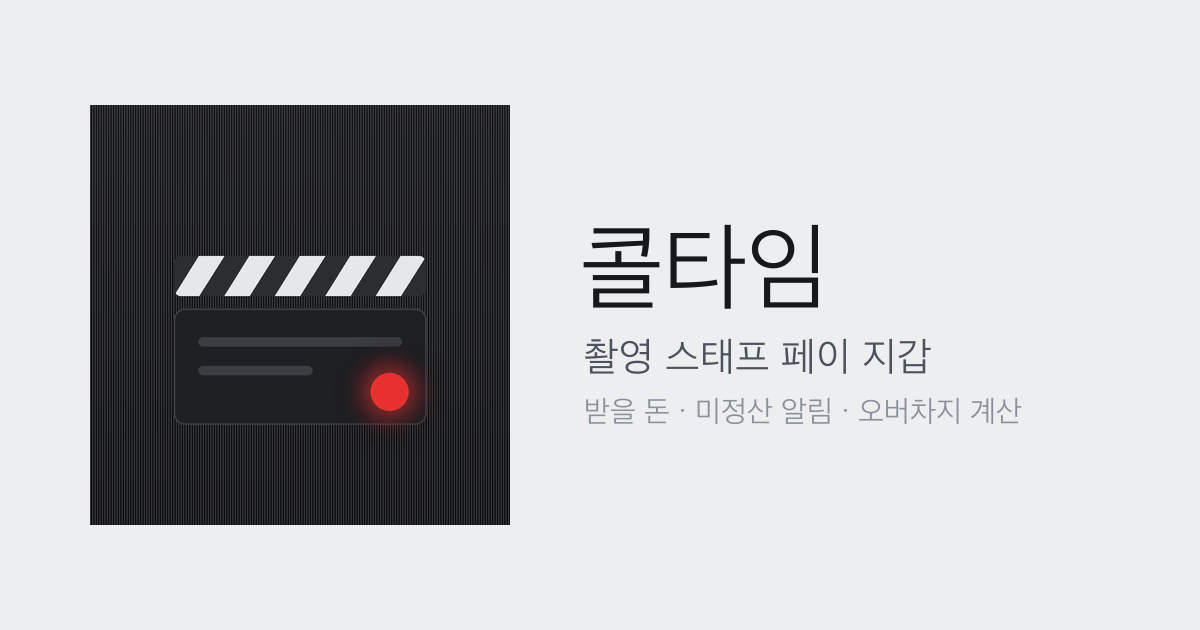
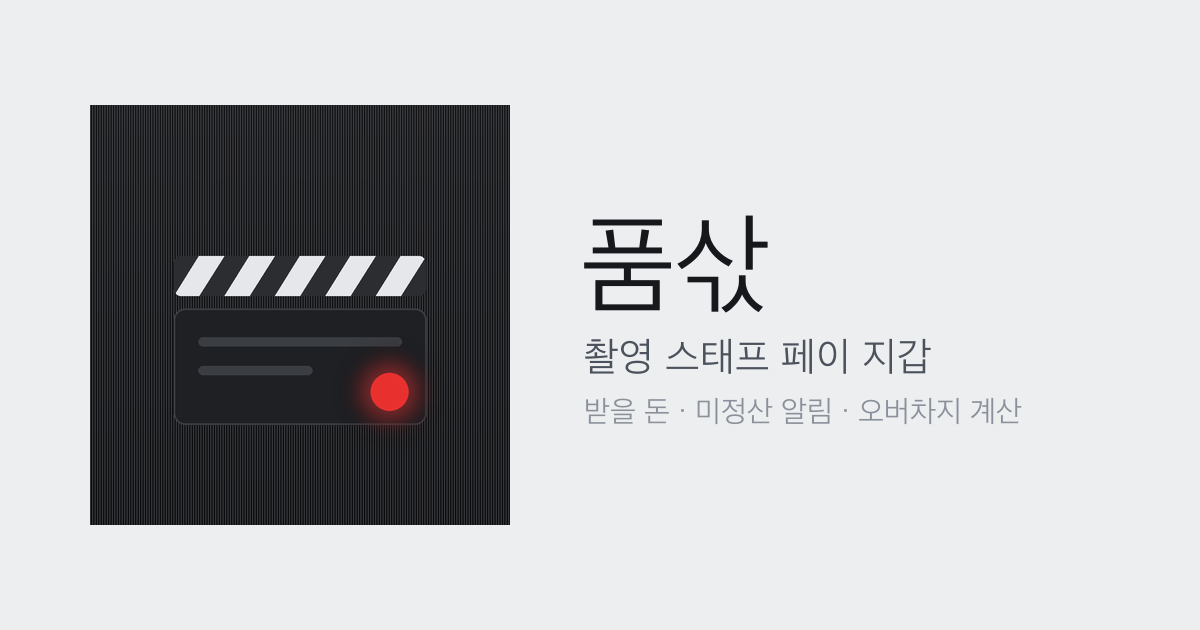
앱 이름을 품삯으로 변경

Changed region(s): [[0.4933, 0.3317, 0.7092, 0.5127]]

diff --git a/index.html b/index.html
@@ -4,7 +4,7 @@
 <meta charset="utf-8">
 <meta name="viewport" content="width=device-width,initial-scale=1,viewport-fit=cover">
 <meta name="description" content="뮤비·광고 촬영 스태프를 위한 페이 지갑. 데이페이·오버차지·3.3%·사비·미정산 알림을 한 번에.">
-<meta property="og:title" content="콜타임 — 촬영 스태프 페이 지갑">
+<meta property="og:title" content="품삯 — 촬영 스태프 페이 지갑">
 <meta property="og:description" content="받을 돈, 미정산 촬영, 오버차지 계산을 한눈에.">
 <meta property="og:image" content="icons/og.png">
 <link rel="manifest" href="manifest.webmanifest">
@@ -12,10 +12,10 @@
 <link rel="apple-touch-icon" href="icons/apple-touch-icon.png">
 <meta name="apple-mobile-web-app-capable" content="yes">
 <meta name="mobile-web-app-capable" content="yes">
-<meta name="apple-mobile-web-app-title" content="콜타임">
+<meta name="apple-mobile-web-app-title" content="품삯">
 <meta name="apple-mobile-web-app-status-bar-style" content="default">
 <style>:root{padding-top:env(safe-area-inset-top,0px);padding-bottom:env(safe-area-inset-bottom,0px)}[hidden]{display:none!important}img{max-width:100%}</style>
-<title>콜타임</title>
+<title>품삯</title>
 <meta name="theme-color" content="#EDEEF0">
 <link rel="preconnect" href="https://fonts.googleapis.com">
 <link rel="preconnect" href="https://fonts.gstatic.com" crossorigin>
@@ -138,7 +138,8 @@ button{cursor:pointer}
 .wcard > .in{position:relative;z-index:2;height:100%;display:flex;flex-direction:column}
 .w-top{display:flex;justify-content:space-between;align-items:flex-start;gap:10px}
 .wordmark{font-family:var(--num);font-weight:800;font-size:31px;line-height:.86;letter-spacing:-.045em;text-transform:uppercase}
-.wordmark small{display:block;font-size:17px;letter-spacing:-.02em;margin-top:3px}
+.wordmark small{display:block;font-size:15px;letter-spacing:.02em;margin-top:6px}
+.wm-ko{display:block;font-family:var(--font);font-weight:800;font-size:40px;letter-spacing:-.06em;line-height:.95}
 .w-sum{text-align:right}
 .w-label{display:inline-flex;align-items:center;gap:6px;font-size:13px;font-weight:600}
 .w-pill{font-size:10.5px;font-weight:700;padding:2px 7px;border-radius:999px}
@@ -451,7 +452,7 @@ button{cursor:pointer}
 
 <div class="app" id="app">
   <header class="top">
-    <h1 id="ttl">콜타임</h1>
+    <h1 id="ttl">품삯</h1>
     <span class="sync" id="sync"><i></i><span>이 기기에 저장</span></span>
     <button class="icon-btn bell" id="bellBtn" data-act="bell" aria-label="정산 알림">
       <svg viewBox="0 0 24 24" fill="none" stroke="currentColor" stroke-width="1.8" stroke-linecap="round" stroke-linejoin="round"><path d="M6 16V11a6 6 0 0 1 12 0v5l1.5 2h-15z"/><path d="M10 20.5a2 2 0 0 0 4 0"/></svg>
@@ -668,7 +669,7 @@ function walletHTML(t) {
       <div class="grain"></div><div class="sheen"></div><div class="glow"></div>
       <div class="in">
         <div class="w-top">
-          <div><div class="wordmark">Call<br>Time<small>${i === 0 ? 'Wrap' : i === 1 ? 'Next' : 'Year'}</small></div><div class="chipslate"></div></div>
+          <div><div class="wordmark"><span class="wm-ko">품삯</span><small>${i === 0 ? 'Wrap' : i === 1 ? 'Next' : 'Year'}</small></div><div class="chipslate"></div></div>
           <div class="w-sum">
             <div class="w-label">${c.pill ? `<span class="w-pill">${c.pill}</span>` : ''}${c.label}</div>
             <div class="w-amt"><span class="num" data-count="${Math.round(c.amt)}">${won(c.amt)}</span><span class="u">원</span>${I.chev}</div>
@@ -847,7 +848,7 @@ function viewLuck() {
 }
 
 /* ───────── render ───────── */
-const TITLES = { home: '콜타임', cal: '촬영 일정', settle: '정산', luck: '촬영운' };
+const TITLES = { home: '품삯', cal: '촬영 일정', settle: '정산', luck: '촬영운' };
 function render() {
   $('#ttl').textContent = TITLES[tab];
   document.querySelectorAll('.tab').forEach(b => b.classList.toggle('on', b.dataset.tab === tab));
@@ -1182,7 +1183,7 @@ function settingsHTML() {
     <div class="two"><button type="button" class="pb" data-act="exportData">백업 파일 저장</button><label class="pb" for="importFile" style="cursor:pointer">백업 불러오기</label></div>
     <input type="file" id="importFile" accept="application/json,.json" hidden></div>`}
   ${S.sample ? `<button class="pb block" style="margin-top:14px" data-act="clearSample">예시 데이터 지우고 시작하기</button>` : ''}
-  <div class="note" style="text-align:center;margin-top:18px">베타 · 원천징수 계산은 일반적인 기준을 적용한 참고용이에요. 실제 세액·신고는 국세청 또는 세무 전문가에게 확인하세요.</div>
+  <div class="note" style="text-align:center;margin-top:18px">품삯 베타 · 원천징수 계산은 일반적인 기준을 적용한 참고용이에요. 실제 세액·신고는 국세청 또는 세무 전문가에게 확인하세요.</div>
   <details class="note" style="margin-top:8px"><summary style="cursor:pointer;text-align:center">오픈소스 고지</summary>
     <p style="margin:8px 0 0">일부 인터랙션(카드 틸트·테두리 광택·버튼 반사광·단계 폼·점진 블러)은 React Bits(© David Haz)의 컴포넌트를 참고해 다시 구현했습니다. MIT License + Commons Clause — https://github.com/DavidHDev/react-bits</p></details>
   <div class="sh-actions"><button class="pb primary" data-act="closeSheet"><span class="spec"></span>완료</button></div>`;
@@ -1194,7 +1195,7 @@ const A = {
   hideInstall: () => { try { localStorage.setItem('calltime.installHint', 'off'); } catch (e) {} render(); },
   exportData: () => {
     const blob = new Blob([JSON.stringify(snapshot(), null, 1)], { type: 'application/json' });
-    const a = document.createElement('a'); a.href = URL.createObjectURL(blob); a.download = `콜타임_백업_${TODAY}.json`;
+    const a = document.createElement('a'); a.href = URL.createObjectURL(blob); a.download = `품삯_백업_${TODAY}.json`;
     document.body.appendChild(a); a.click(); setTimeout(() => { URL.revokeObjectURL(a.href); a.remove(); }, 1000); toast('백업 파일을 저장했어요');
   },
   otPct: (t) => { S.settings.otPct = +t.dataset.v; save(); const i = $('#s-otpct'); if (i) i.value = t.dataset.v; t.parentElement.querySelectorAll('.chip').forEach(c => c.classList.toggle('on', c === t)); },
@@ -1275,7 +1276,7 @@ document.addEventListener('input', e => {
 document.addEventListener('change', e => {
   if (e.target.id !== 'importFile' || !e.target.files[0]) return;
   const fr = new FileReader();
-  fr.onload = () => { try { const d = JSON.parse(fr.result); if (!hydrate(d)) throw 0; save(); closeSheet(); render(); toast(`불러왔어요 · 촬영 ${S.jobs.length}건`); } catch (x) { toast('콜타임 백업 파일이 아니에요'); } };
+  fr.onload = () => { try { const d = JSON.parse(fr.result); if (!hydrate(d)) throw 0; save(); closeSheet(); render(); toast(`불러왔어요 · 촬영 ${S.jobs.length}건`); } catch (x) { toast('품삯 백업 파일이 아니에요'); } };
   fr.readAsText(e.target.files[0]);
 });
 document.addEventListener('keydown', e => { if (e.key === 'Escape' && !$('#sheetRoot').hidden) closeSheet(); });
@@ -1322,6 +1323,6 @@ initCloud();
 })();
 </script>
 
-<script>if ('serviceWorker' in navigator) addEventListener('load', () => navigator.serviceWorker.register('sw.js?v=202609231845').catch(() => {}));</script>
+<script>if ('serviceWorker' in navigator) addEventListener('load', () => navigator.serviceWorker.register('sw.js?v=202609231901').catch(() => {}));</script>
 </body>
 </html>

diff --git a/sw.js b/sw.js
@@ -1,4 +1,4 @@
-const C = 'calltime-202609231845';
+const C = 'pumsak-202609231901';
 self.addEventListener('install', e => { self.skipWaiting(); e.waitUntil(caches.open(C).then(c => c.addAll(['./', 'index.html', 'manifest.webmanifest', 'icons/icon-192.png']))); });
 self.addEventListener('activate', e => e.waitUntil(caches.keys().then(ks => Promise.all(ks.filter(k => k !== C).map(k => caches.delete(k)))).then(() => self.clients.claim())));
 self.addEventListener('fetch', e => {
